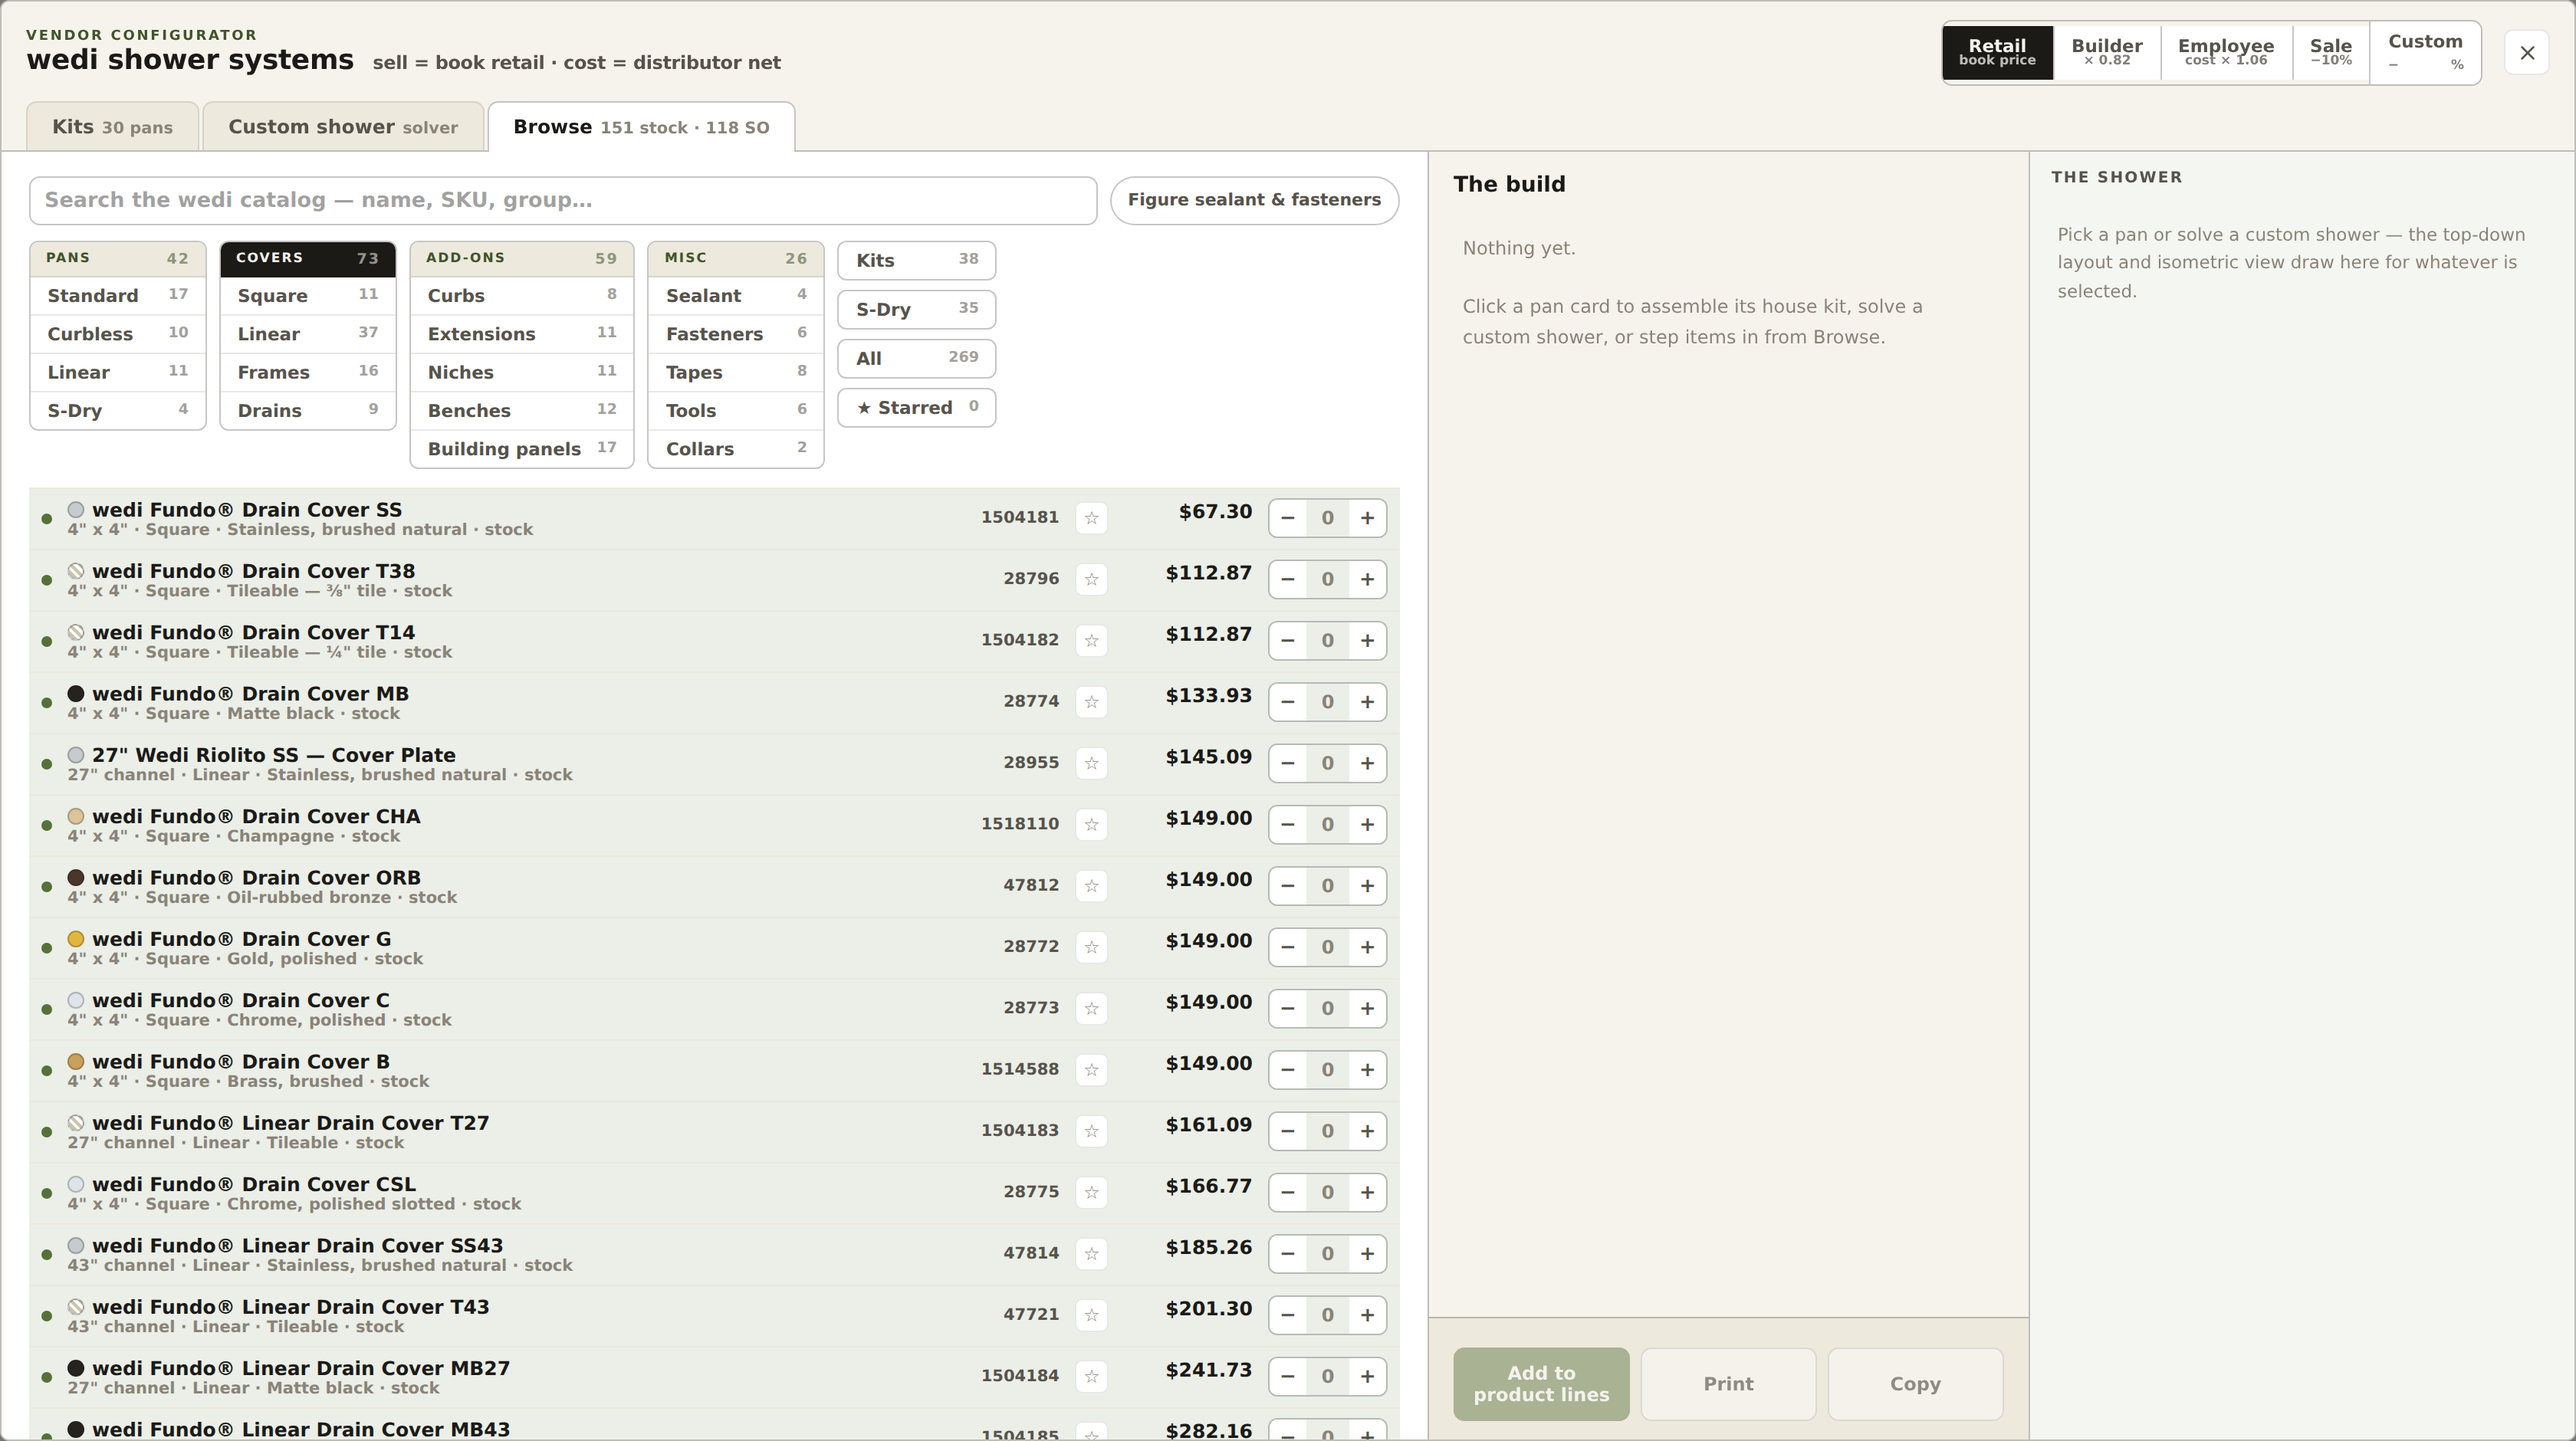
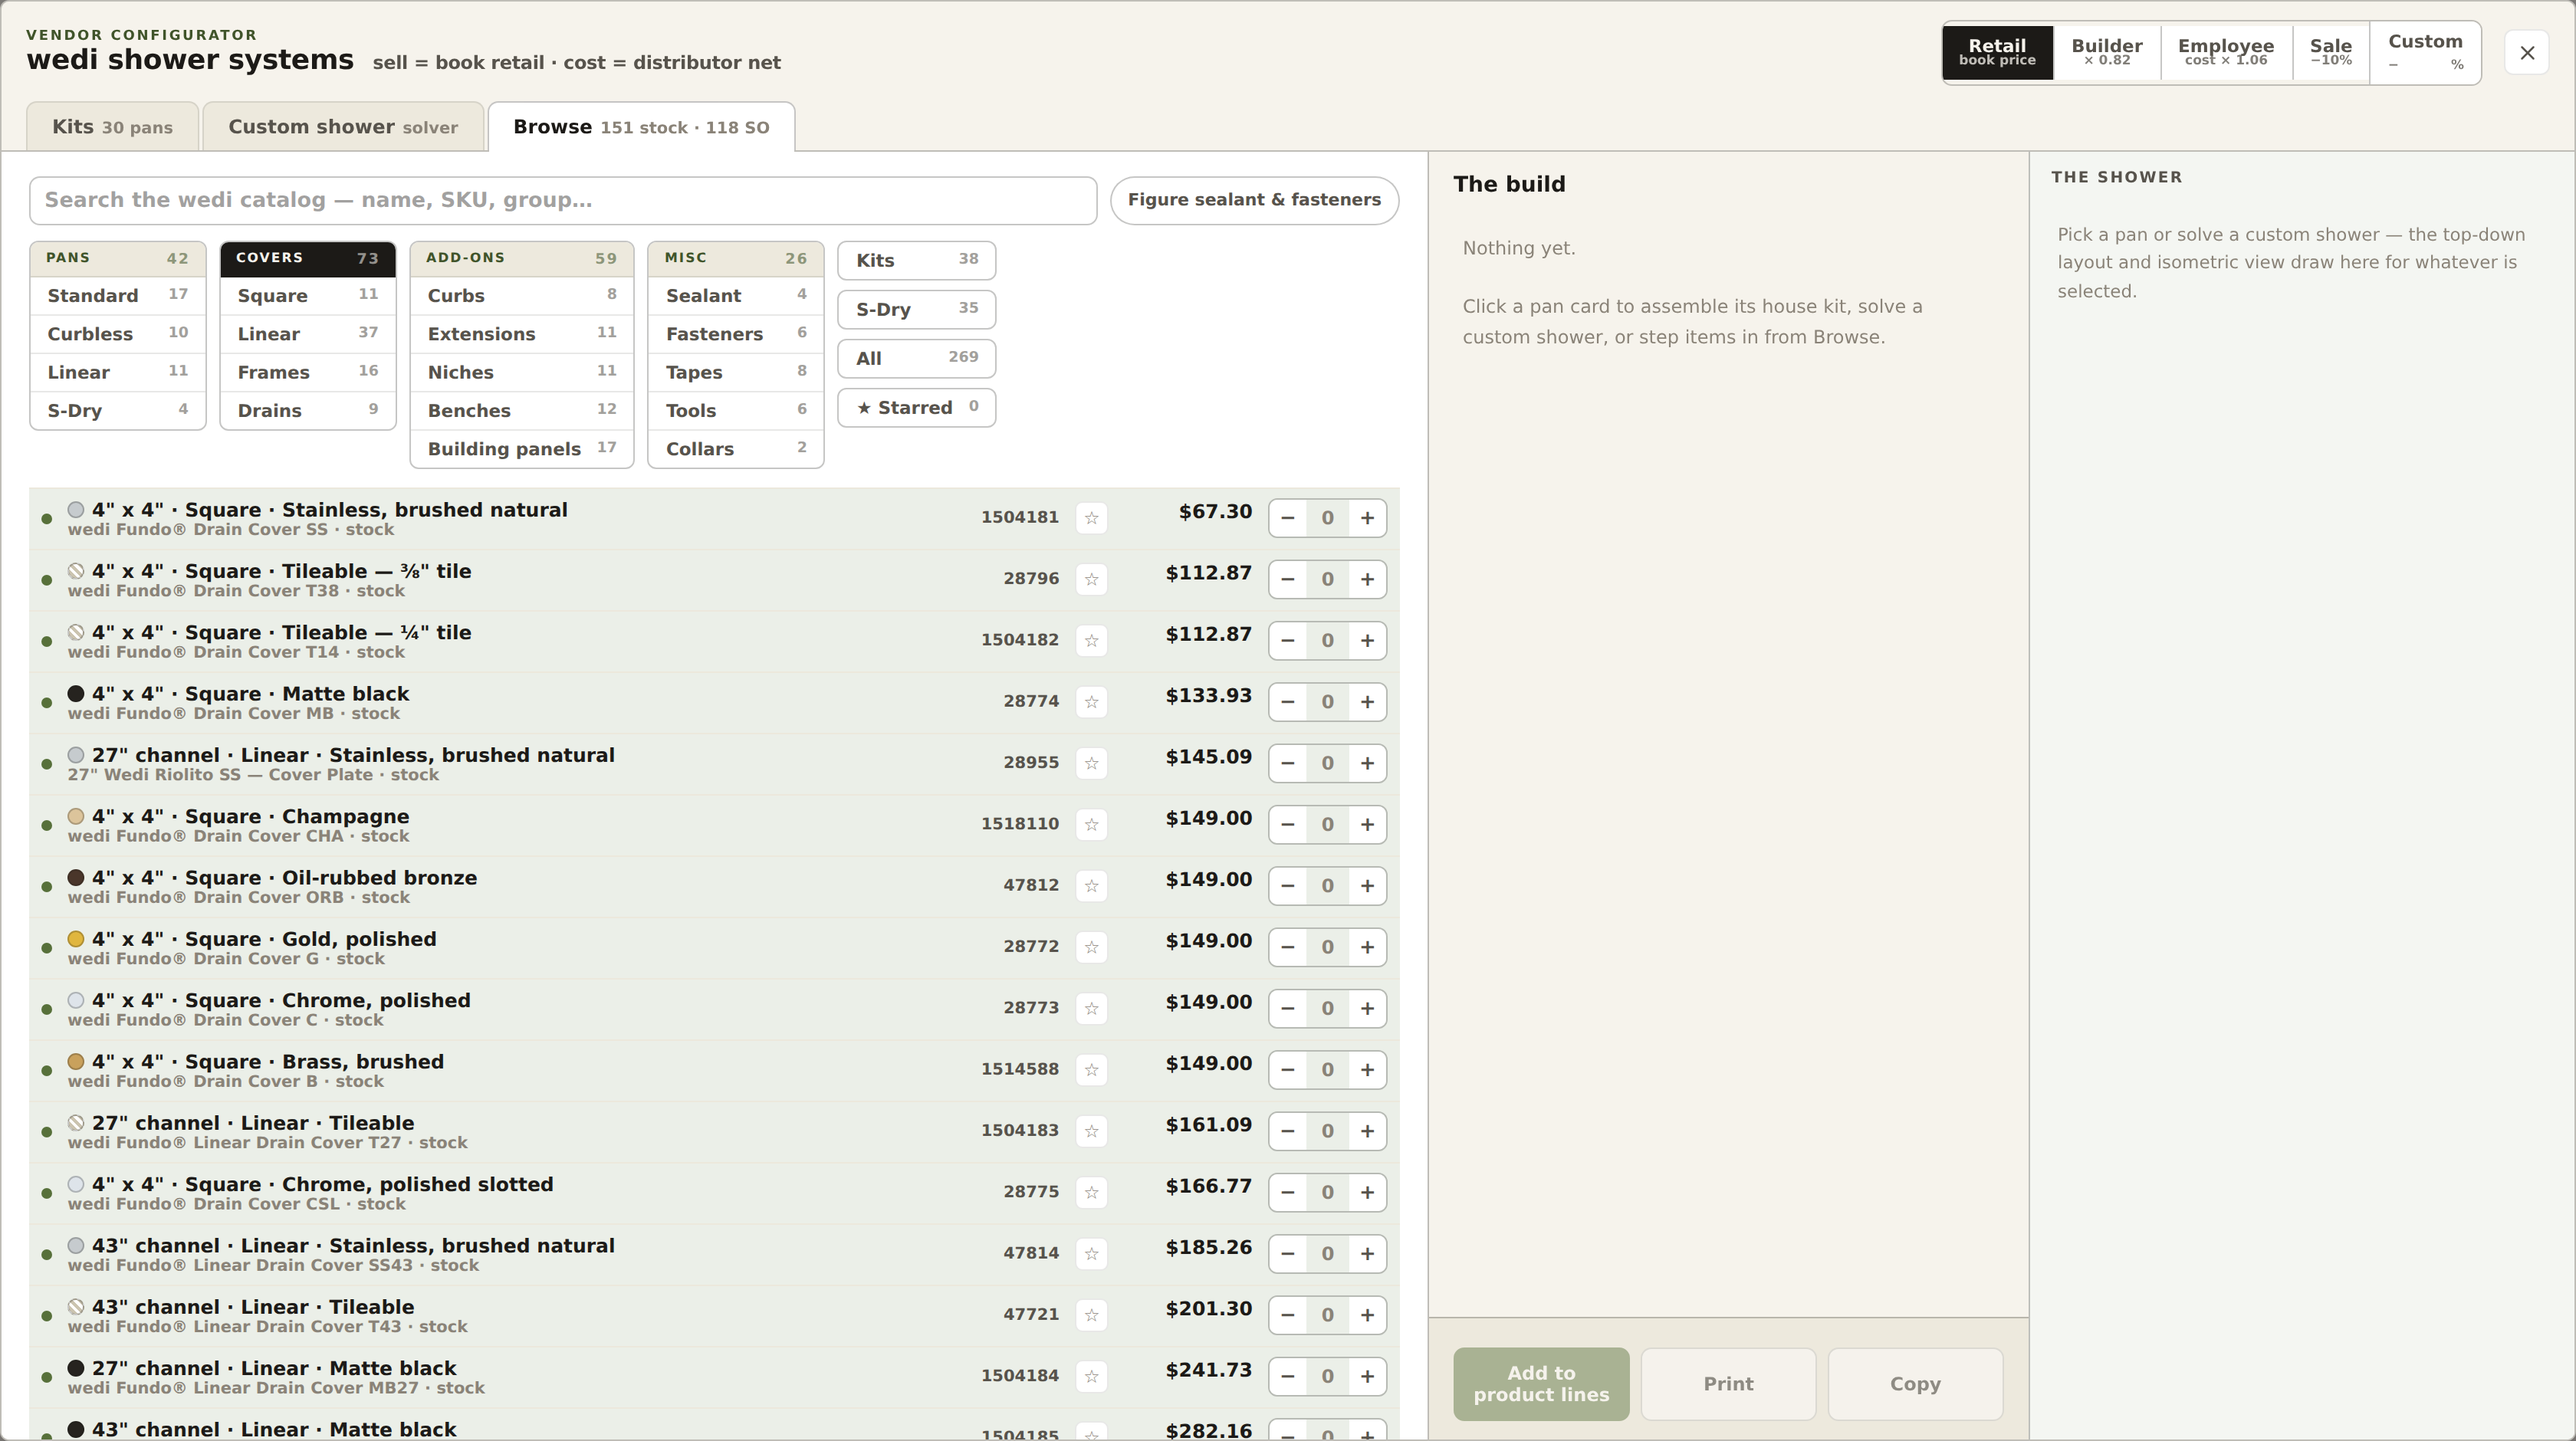
wedi browse: Size - Type - COLOR is the covers' main line
The size-type-color reading moves up to the row's main line with the
color a shade bolder (swatch leading); the vendor's product name drops
to the small line with the stock tag.

870 node --test assertions passing, vite build clean, U5 refreshed.

Claude-Session: https://claude.ai/code/session_01CGZQq77kLq7VGFWvCeT7EG

Changed region(s): [[0.0312, 0.3394, 0.2188, 1.0]]

diff --git a/src/WediConfigurator.jsx b/src/WediConfigurator.jsx
@@ -1595,12 +1595,21 @@ export default function WediConfigurator({ seed, tier, onTierChange, wediBuilder
         </div>
         {list.slice(0, MAX).map((e) => {
           const n = qtyIn(e.key);
+          // Drain covers & frames lead with what the buyer picks by — Size ·
+          // Type · COLOR (color a shade bolder) — the vendor name drops to
+          // the small line (owner ask 2026-07-30).
+          const cf = (e.group === "cover" || e.group === "coverFrame") && finName(e);
           return (
             <div className={"brow" + (e.stock ? " stk" : "")} key={e.key}>
               <span className={"sdot" + (e.stock ? "" : " so")} title={e.stock ? "stocked" : "special order"} />
               <div className="bn">
-                <div className="n"><FinDot e={e} />{e.name}</div>
-                <div className="s">{browseSub(e)}</div>
+                {cf ? (<>
+                  <div className="n"><FinDot e={e} />{e.sizeText} · {e.sub === "linear" ? "Linear" : "Square"} · <b style={{ fontWeight: 800 }}>{finName(e)}</b></div>
+                  <div className="s">{e.name} · {e.stock ? "stock" : "special order"}</div>
+                </>) : (<>
+                  <div className="n"><FinDot e={e} />{e.name}</div>
+                  <div className="s">{browseSub(e)}</div>
+                </>)}
               </div>
               <div className="sku">{e.stock ? e.erp : e.us}</div>
               <button className={"starb" + (starred.has(e.key) ? " on" : "")}

diff --git a/.scratch/066_wedi-configurator/README.md b/.scratch/066_wedi-configurator/README.md
@@ -182,7 +182,9 @@ the pinned "Vendor configurators" row carrying Sheoga and wedi side by side.
   sub-filter moved from Misc into the Covers column. `U1`–`U4` via
   `shoot-clear.mjs`. (5) Browse rows for drain covers & frames read
   Size · Type (Square/Linear) · Color instead of color-first (`browseSub`;
-  drain kits carry no size/finish data so they keep the plain line).
+  drain kits carry no size/finish data so they keep the plain line);
+  second pass: Size · Type · COLOR is the MAIN line (color a shade
+  bolder), the vendor name drops to the small line.
   `U5` via `shoot-coverline.mjs`
 - Mobbin pattern references: [IKEA kitchen planner](https://mobbin.com/screens/46855235-8a29-4755-bf50-a856787778b0),
   [Walmart ingredients list](https://mobbin.com/screens/fd11011b-cfa3-4552-9d6f-caf36a1a2456),
